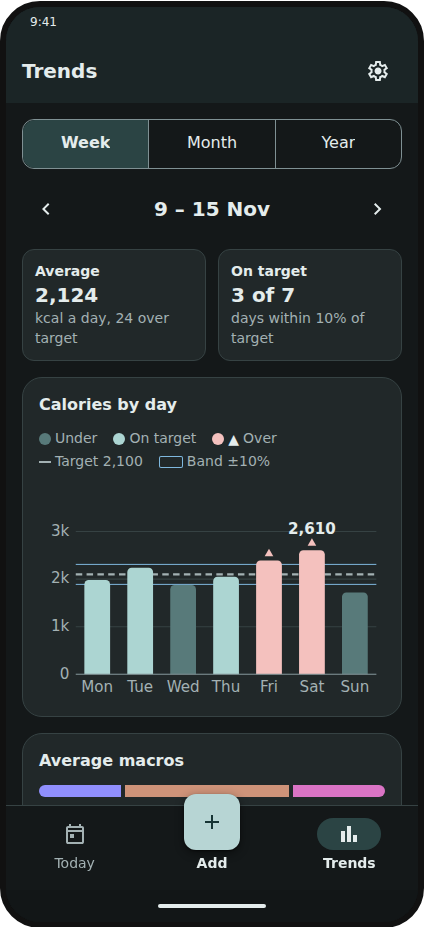
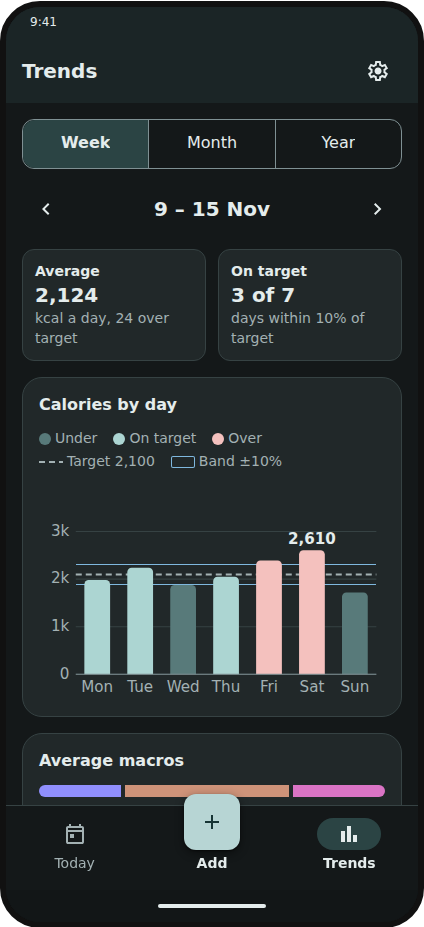
refactor: adopt kit Typography and drop the over marker on Trends
Bump the Shields.* packages to 1.0.0-pr.19.34, use the renamed
Typography component, pass ShowOverMarker="false" to the Trends charts
and calendar, explain the calendar tick with LegendSwatch.Check in the
Month legend, match single-quoted inline styles in NoAppTokensTests and
drop dead selectors from the story-layout check. Retake the Trends
README screenshots.

diff --git a/tests/CalorieTracker.UI.Tests/Screens/TrendsViewTests.cs b/tests/CalorieTracker.UI.Tests/Screens/TrendsViewTests.cs
@@ -137,6 +137,22 @@ public class TrendsViewTests : ComponentTestBase
     }
 
     [Test]
+    public void OverDays_CarryNoMarkerInAnyPeriod_ButTheyStillSayOver()
+    {
+        var week = Week();
+        var month = Month();
+        var year = Year();
+
+        Assert.Multiple(() =>
+        {
+            Assert.That(week.FindAll("[data-testid^=trends-chart-marker-]"), Is.Empty);
+            Assert.That(month.FindAll("[data-testid^=trends-calendar-marker-]").Select(e => e.TextContent), Has.All.EqualTo("✓"));
+            Assert.That(year.FindAll("[data-testid^=trends-months-chart-marker-]"), Is.Empty);
+            Assert.That(week.Find("[data-testid=trends-chart-bar-2026-11-13]").GetAttribute("aria-label"), Does.EndWith("over target"));
+        });
+    }
+
+    [Test]
     public void Week_ColoursEachDayByItsStatus_FridayAndSaturdayOverAndWednesdayAndSundayUnder()
     {
         var cut = Week();
@@ -522,7 +538,7 @@ public class TrendsViewTests : ComponentTestBase
     }
 
     [Test]
-    public void Legend_UsesDotsAndMarksOverWithATriangleSoColourIsNotTheOnlyCue()
+    public void Legend_UsesDotsAndMarksNothingOnOver()
     {
         var cut = Week();
 
@@ -531,8 +547,7 @@ public class TrendsViewTests : ComponentTestBase
         Assert.Multiple(() =>
         {
             Assert.That(items.Select(i => i.QuerySelector(".swatch")!.ClassList.Last()), Is.EqualTo(new[] { "chip", "accent", "error", "line", "band" }));
-            Assert.That(items[2].QuerySelector(".marker")!.TextContent, Is.EqualTo("▲"));
-            Assert.That(items[0].QuerySelector(".marker"), Is.Null);
+            Assert.That(items.Select(i => i.QuerySelector(".marker")), Has.All.Null, "Over is shown by colour only");
             Assert.That(Text(cut, "trends-legend-2"), Does.Contain("Over"));
             Assert.That(Text(cut, "trends-legend-3"), Does.StartWith("Target "));
             Assert.That(Text(cut, "trends-legend-4"), Is.EqualTo("Band ±10%"));
@@ -540,13 +555,13 @@ public class TrendsViewTests : ComponentTestBase
     }
 
     [Test]
-    public void Legend_InMonth_AddsNotLoggedOnAnOutlineSwatchBeforeTheTarget()
+    public void Legend_InMonth_ExplainsTheTickAndAddsNotLoggedOnAnOutlineSwatchBeforeTheTarget()
     {
         var cut = Month();
 
         var items = cut.FindAll("[data-testid^=trends-legend-]").Where(e => e.LocalName == "li").ToList();
 
-        Assert.That(items.Select(i => i.QuerySelector(".swatch")!.ClassList.Last()), Is.EqualTo(new[] { "chip", "accent", "error", "outline", "line", "band" }));
+        Assert.That(items.Select(i => i.QuerySelector(".swatch")!.ClassList.Last()), Is.EqualTo(new[] { "chip", "check", "error", "outline", "line", "band" }));
         Assert.That(Text(cut, "trends-legend-3"), Is.EqualTo("Not logged"));
     }
 

diff --git a/tests/CalorieTracker.UI.Tests/DesignSystem/NoAppTokensTests.cs b/tests/CalorieTracker.UI.Tests/DesignSystem/NoAppTokensTests.cs
@@ -10,10 +10,10 @@ public partial class NoAppTokensTests
     internal static IReadOnlySet<string> Declared(string css) =>
         DesignTokens.Declares(CommentPattern().Replace(css, "")).ToHashSet(StringComparer.Ordinal);
 
-    /// <summary>Names of the custom properties declared in the inline <c>style="..."</c> values of markup.</summary>
+    /// <summary>Names of the custom properties declared in the inline <c>style="..."</c> or <c>style='...'</c> values of markup.</summary>
     internal static IReadOnlySet<string> DeclaredInline(string markup) =>
         StylePattern().Matches(markup)
-            .SelectMany(match => DesignTokens.Declares(match.Groups["style"].Value + ";"))
+            .SelectMany(match => DesignTokens.Declares((match.Groups["style"].Success ? match.Groups["style"].Value : match.Groups["single"].Value) + ";"))
             .ToHashSet(StringComparer.Ordinal);
 
     private static IReadOnlySet<string> DeclaredInApp() =>
@@ -37,8 +37,14 @@ public partial class NoAppTokensTests
             DeclaredInline("<span style=\"--x: var(--y)\"></span><div style=\"--fill: @Fill; --gap-x: var(--space-2)\" class=\"a\"></div><p style=\"margin: var(--z)\"></p>"),
             Is.EquivalentTo(new[] { "--x", "--fill", "--gap-x" }));
 
-    [GeneratedRegex("\\bstyle=\"(?<style>[^\"]*)\"")]
+    [GeneratedRegex("\\bstyle=(?:\"(?<style>[^\"]*)\"|'(?<single>[^']*)')")]
     private static partial Regex StylePattern();
+
+    [Test]
+    public void DeclaredInline_FindsCustomPropertiesInSingleQuotedStyleAttributes() =>
+        Assert.That(
+            DeclaredInline("<span style='--x: var(--y)'></span><div style='--fill: 1; margin: 0'></div><p style='margin: var(--z)'></p>"),
+            Is.EquivalentTo(new[] { "--x", "--fill" }));
 
     [GeneratedRegex(@"/\*.*?\*/", RegexOptions.Singleline)]
     private static partial Regex CommentPattern();

diff --git a/src/CalorieTracker.UI.Stories/Stories/Screens/Trends.md b/src/CalorieTracker.UI.Stories/Stories/Screens/Trends.md
@@ -19,7 +19,7 @@ How a week, a month or a year went, from the bar's **Trends** item. View: `Trend
 | Part | Content |
 |---|---|
 | Tiles | Each tile is the kit's `StatTile`, label first. **Average**: "2,124" with "kcal a day, 24 over target" (or "under" or "on target"). **On target**: "3 of 7" with "days within 10% of target" (7 is the days of the week). |
-| Calories by day | The kit's `ChartLegend` with dots (Under, On target, Over with a ▲ marker, "Target 2,100" on the dashed-line swatch and "Band ±10%" on the band swatch) (legend test ids `trends-legend-0`, `-1`, ... run in this order: Week with a target Under, On target, Over, Target, Band; Week without a target Under, On target, Over; Month Under, On target, Over, Not logged, Target, Band; Year Under, On target, Over, Target, Band) and the kit's `TrendBarChart` (the target is a dashed line and the band's two edges are outlines in `--color-chart-band`): one bar for each past logged day, coloured by its status against its own target, an over marker on Over days and the tallest value labelled. Today and later days, and days not logged, are empty slots. A bar is a button: it opens that day on Today (`/?date=yyyy-MM-dd`). |
+| Calories by day | The kit's `ChartLegend` with dots (Under, On target, Over, "Target 2,100" on the dashed-line swatch and "Band ±10%" on the band swatch) (legend test ids `trends-legend-0`, `-1`, ... run in this order: Week with a target Under, On target, Over, Target, Band; Week without a target Under, On target, Over; Month Under, On target (a ✓ box), Over, Not logged, Target, Band; Year Under, On target, Over, Target, Band) and the kit's `TrendBarChart` (the target is a dashed line and the band's two edges are outlines in `--color-chart-band`): one bar for each past logged day, coloured by its status against its own target, Over shown by colour alone (no marker) and the tallest value labelled. Today and later days, and days not logged, are empty slots. A bar is a button: it opens that day on Today (`/?date=yyyy-MM-dd`). |
 | Average macros | The kit's `StackedBar` with the average protein, carbs and fat in the data series 1, 2 and 3, sized by calories and labelled in grams (test ids `trends-share-segment-<n>` and `-label-<n>`). |
 | Kcal by meal | The kit's `BarList` of the average kcal in Breakfast, Lunch, Dinner and Snacks. |
 
@@ -27,7 +27,7 @@ How a week, a month or a year went, from the bar's **Trends** item. View: `Trend
 | Part | Content |
 |---|---|
 | Tiles | **Average** ("kcal a day"); **On target** ("N of M", "logged days within 10% of target"); **Streak** ("13 days", "logged in a row"; another month is labelled **Longest streak** and shows its longest run); **Logged** ("N of M", "past days logged"). |
-| Each day | The kit's `MonthCalendar` (Monday first, headings M T W T F S S): a cell for each day coloured by status, a ▲ marker on over days and a ✓ on on-target days (so colour is not the only cue), today with a double ring, later days disabled. A cell is a button that opens that day on Today. |
+| Each day | The kit's `MonthCalendar` (Monday first, headings M T W T F S S): a cell for each day coloured by status, a ✓ on on-target days (over days by colour alone), today with a double ring, later days disabled. A cell is a button that opens that day on Today. |
 | Average a day, by week | The kit's `TrendBarChart` of Monday-start weeks (the first and last cover only their days in the month, but are named and opened by their Monday), labelled W1, W2, … A bar opens that week in Week. |
 | Top foods | The kit's `BarList` of the 5 foods with the most kcal, as `TrendsService` ranks them. |
 

diff --git a/AGENTS.md b/AGENTS.md
@@ -26,7 +26,7 @@ Personal Android app (.NET 11 MAUI Blazor Hybrid). Setup: [docs/dev-setup-build.
 - Every database call goes through `DatabaseGate` (`DatabaseGateTests`).
 - Event ids: `CoreEvent` 1000–1999 (mostly a block of 100 per type; `ServingService` 1010, `FoodHistoryService` 1050, `FoodImportService` 1060, `FavouriteService` 1070 and `TrendsService` 1080 (1081–1086) sit in the 1000 block, `TargetService` has 1605–1607 for the target history in its 1600 block, and the online search 1520, online import 1540 and online notice 1550 are blocks of ten inside 1500), `UiEvent` 2000–4999 (a block of 100 per type; the Add sheet and the usual foods use 2301–2308 in the 2300 block, `TrendsPage` 2401–2403 in the 2400 block), `AppEvent` 5000–8999, the kit's `KitEvent` 9000–9999. `CoreEventTests` and `EventIdTests` fix the values and ranges.
 - Components and namespaces: the kit's components (`Icon`, `AppButton`, `Snackbar`, `AppScreen`, `BottomNav` and the rest of `KitNames.Components`) live in the `Shields.UI` namespaces and log under the kit's `KitEvent` range, not `UiEvent`; this app's own components stay in `CalorieTracker.UI.Components`.
-- Styling: this repo has no styling of its own. App CSS (`*.razor.css`, and any inline `style`) declares layout only: display, grid, flex, gap, margin, padding, size, position, overflow and the like, never colour, background, border, radius, shadow, font or opacity (`LayoutOnlyCssTests`, with an explicit allow-list of properties); text, dividers, alerts, banners and the search box are the kit's `Text`, `Divider`, `InlineAlert`, `Banner` and `SearchField`. In a code block write `<Shields.UI.Components.Layout.Text>` for the kit's `Text` when it opens the block, since Razor reads `<Text>` there as its own `<text>` tag. This repo declares no CSS custom properties and no general-purpose components (`NoAppTokensTests`, `AppComponentsAllowListTests`), and app CSS that sizes or spaces uses kit tokens only (`TokensOnlyCssTests`).
+- Styling: this repo has no styling of its own. App CSS (`*.razor.css`, and any inline `style`) declares layout only: display, grid, flex, gap, margin, padding, size, position, overflow and the like, never colour, background, border, radius, shadow, font or opacity (`LayoutOnlyCssTests`, with an explicit allow-list of properties); text, dividers, alerts, banners and the search box are the kit's `Typography`, `Divider`, `InlineAlert`, `Banner` and `SearchField`. The kit's text component is `Typography` (not `Text`, which Razor reads as its own `<text>` tag in a code block). This repo declares no CSS custom properties and no general-purpose components (`NoAppTokensTests`, `AppComponentsAllowListTests`), and app CSS that sizes or spaces uses kit tokens only (`TokensOnlyCssTests`).
 - Screen markup rules (they were in the stories' Foundations page): number fields set `inputmode="numeric"` (whole numbers) or `inputmode="decimal"` (decimals); content stays inside `--inset-top` and `--inset-bottom` (the app sets them to the space the status bar, camera cutout and navigation bar cover); every interactive element has a `data-testid`.
 - Logs hold no PII: ids, counts, events and non-personal data such as a scanned barcode are fine, personal data never is (obfuscate when needed; the food search is stricter and never logs its query or the barcodes it returns) (`Logging.feature`). Add a test that a new feature's log lines carry no PII.
 - Docs: `ReadmeDocsTests` checks the README's screenshot table and Project layout.

diff --git a/docs/dev-setup-build.md b/docs/dev-setup-build.md
@@ -17,7 +17,7 @@ The stories need only the .NET SDK.
 `dotnet run --project src/CalorieTracker.UI.Stories.Host`, then open http://localhost:5056. Story files are `*.stories.razor` in `src/CalorieTracker.UI.Stories/Stories/`, a library the host loads; every title starts with `StoryTitles.Prefix` (`Calorie Tracker/`), so a story's id starts with `calorie-tracker-`. `main` is published at https://marty-shields.github.io/calorie-tracker-app/. The site's shell (phone frame, theme switch, token sheets) and the kit's own components come from the `Shields.UI.Stories` and `Shields.UI` packages; the host only loads this app's stories library. To try a change in the kit, use a `publish-beta` prerelease of it from nuget.org (see AGENTS.md).
 
 ### Styling comes from the kit
-This repo holds no custom elements or styling. App CSS declares layout only (display, grid, flex, gap, margin, padding, size, position, overflow); colour, border, font, shadow and the like come from the kit's components and tokens, and screens use the kit's `Text`, `Divider`, `InlineAlert`, `Banner` and `SearchField` instead of raw `<button>`, `<input>`, `<select>`, `<textarea>`, `<svg>` or `<dialog>`. `LayoutOnlyCssTests` and `NoRawControlsTests` fail with the file, selector and property (or the line) when that breaks. When the kit lacks a part, request it in app-ui-kit and try it from a `publish-beta` prerelease. In a code block Razor reads `<Text>` as its own `<text>` tag, so write `<Shields.UI.Components.Layout.Text>` there.
+This repo holds no custom elements or styling. App CSS declares layout only (display, grid, flex, gap, margin, padding, size, position, overflow); colour, border, font, shadow and the like come from the kit's components and tokens, and screens use the kit's `Typography`, `Divider`, `InlineAlert`, `Banner` and `SearchField` instead of raw `<button>`, `<input>`, `<select>`, `<textarea>`, `<svg>` or `<dialog>`. `LayoutOnlyCssTests` and `NoRawControlsTests` fail with the file, selector and property (or the line) when that breaks. When the kit lacks a part, request it in app-ui-kit and try it from a `publish-beta` prerelease.
 
 ### README screenshots
 The README shows the screen stories in the table below, light and dark, from `docs/images/readme/` (`icon.svg` is also there and is not a story screenshot). Run the stories, then `node .github/scripts/readme-screenshots.mjs http://localhost:5056 <chrome>` retakes every row of the table below: it opens `iframe.html?id=<story id>` in each colour scheme and saves the `.phone` element to `<file>-light.png` and `<file>-dark.png`. With `--check` it writes nothing and fails when a committed screenshot differs from its story by more than 0.2% of its pixels (allowing for anti-aliasing). CI runs the check in `story-layout`; when it fails, the job's `readme-screenshots` artifact holds the retaken images. A screen that changes look retakes its screenshots in the same PR. To add a screenshot, add a row here and to the README; the script reads this table.
